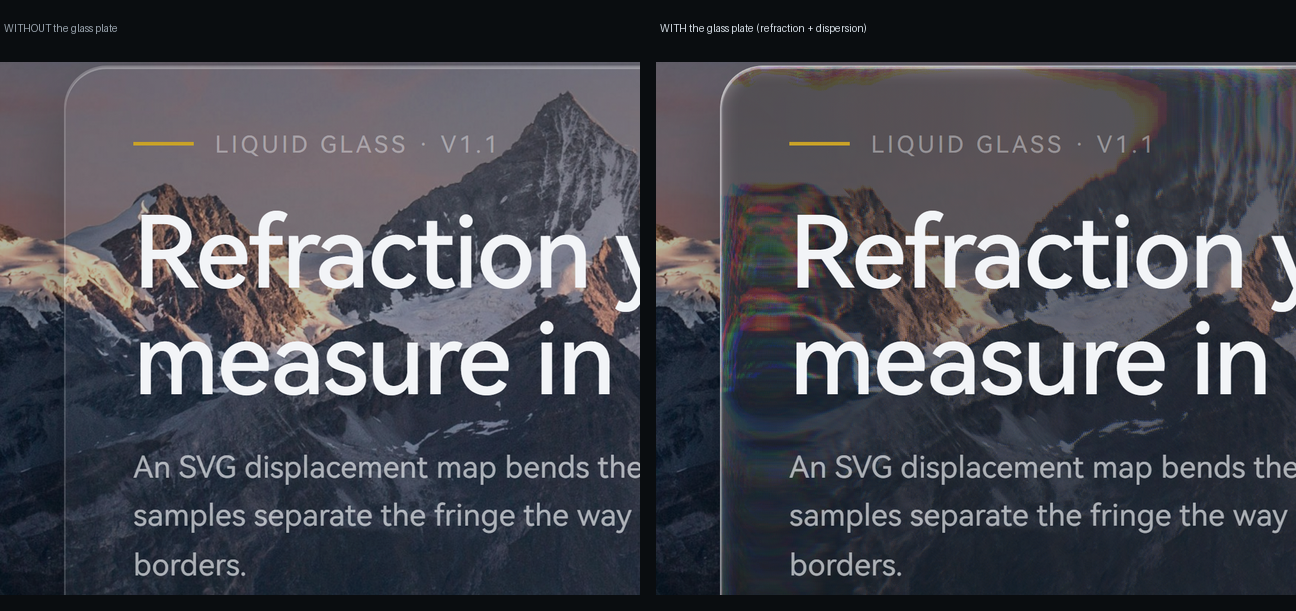
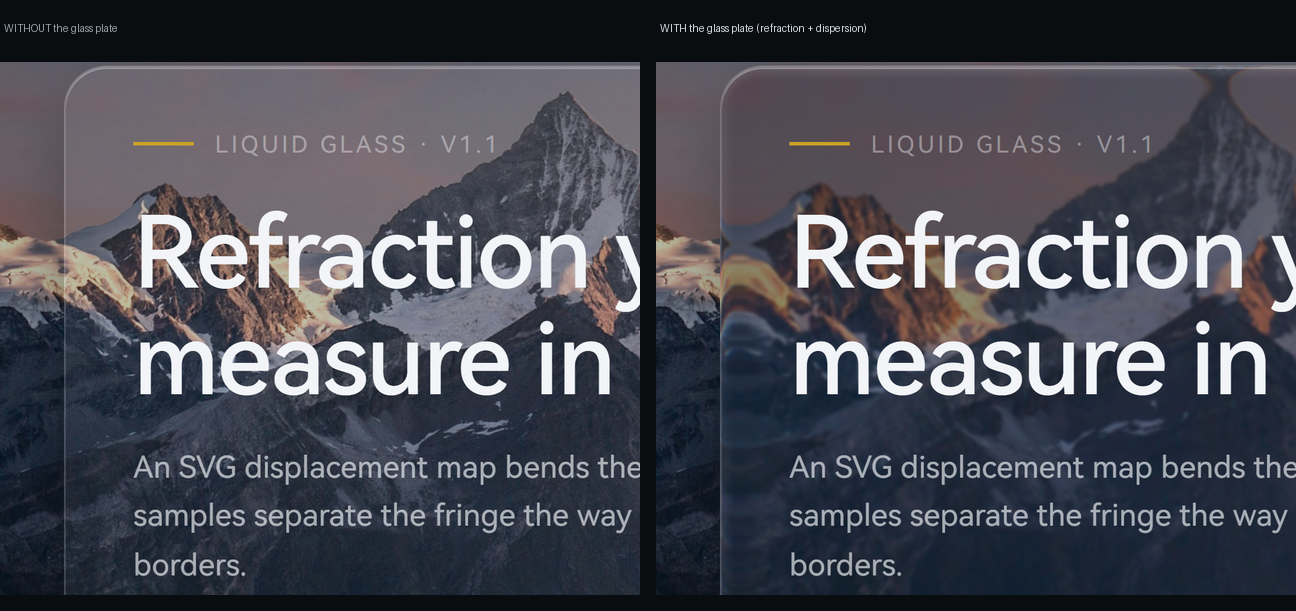
Adopt glasswork's rim model: absolute rim, edge multiplier, small dispersion
- rim is 40 CSS px (clamped) instead of a fraction of the card, so the fringe no longer grows with card size
- dispersion default 0.18 (~11 px band on a 40 px rim); the old 0.55 read as a broad rainbow
- under-glass blur 0.8 + saturate 1.35 + brightness 1.04 to lift the backdrop without fogging
- README/MODIFICATIONS credit kubai087/glasswork (MIT)

diff --git a/src/glass-plate.js b/src/glass-plate.js
@@ -32,14 +32,22 @@ const DEFAULTS = {
   /** Background layers to copy, in paint order. Each is cloned once per plate. */
   layers: ['.lg-bg', '.lg-scrim'],
   /** Lens defaults; tune per project. */
-  refraction: null, // null = auto: clamp(shortSide * 0.30, 8 … 92)
+  // Rim model borrowed from kubai087/glasswork: the refracting band is an absolute
+  // width in CSS px, the very edge samples `edge * rim` inward, and dispersion is a
+  // small fraction (0.15 = red 15% further than blue), not a broad rainbow.
+  rim: 40,
+  edge: 1.6,
+  refraction: null, // null = auto: min(rim * edge, shortSide * 0.5)
   bezel: 0.56,
   curvature: 4,
-  chroma: 0.55,
+  chroma: 0.18,
   specular: 0.86,
   specularWidth: 2.4,
   blur: 0,
   mapScale: 4,
+  // Under-glass treatment borrowed from glasswork: a light blur plus saturation/brightness
+  // lift keeps the glass clear instead of milky. Set frost.blur = 0 to disable.
+  frost: { blur: 0.8, saturate: 1.35, brightness: 1.04 },
 };
 
 const num = (el, name) => {
@@ -106,7 +114,10 @@ export function mountGlassPlate(stage, options = {}) {
 
     const radius = num(card, 'data-radius') ?? (parseFloat(getComputedStyle(card).borderTopLeftRadius) || 24);
     const shortSide = Math.min(r.width, r.height);
-    const refraction = num(card, 'data-refraction') ?? o.refraction ?? Math.max(8, Math.min(92, shortSide * 0.3));
+    const rim = num(card, 'data-rim') ?? o.rim;
+    const edge = num(card, 'data-edge') ?? o.edge;
+    const refraction = num(card, 'data-refraction') ?? o.refraction ?? Math.min(rim * edge, shortSide * 0.5);
+    const bezel = num(card, 'data-bezel') ?? Math.min(1, rim / Math.max(1, shortSide / 2));
 
     plate.style.width = `${w}px`;
     plate.style.height = `${h}px`;
@@ -117,7 +128,7 @@ export function mountGlassPlate(stage, options = {}) {
 
     return {
       x, y, width: r.width, height: r.height, radius, refraction,
-      bezel: num(card, 'data-bezel') ?? o.bezel,
+      bezel,
       curvature: num(card, 'data-curvature') ?? o.curvature,
       chroma: num(card, 'data-chroma') ?? o.chroma,
       specular: num(card, 'data-specular') ?? o.specular,
@@ -135,8 +146,17 @@ export function mountGlassPlate(stage, options = {}) {
     const geometry = measure(card, plate, inner);
     if (!geometry) return;
 
+    applyFrost(inner);
     const ctrl = createGlass(inner, geometry);
     instances.push({ card, plate, inner, ctrl });
+  }
+
+  function applyFrost(inner) {
+    const f = o.frost;
+    if (!f || !f.blur) return;
+    for (const layer of inner.children) {
+      layer.style.filter = `blur(${f.blur}px) saturate(${f.saturate}) brightness(${f.brightness})`;
+    }
   }
 
   function refresh() {

diff --git a/demo/index.html b/demo/index.html
@@ -23,7 +23,7 @@
     <span><b>05</b> License</span>
   </nav>
 
-  <section class="hero glass" data-glass data-refraction="92" data-bezel="0.56" data-chroma="0.55" data-map-scale="4" data-blur="0">
+  <section class="hero glass" data-glass data-rim="40" data-edge="1.6" data-chroma="0.18" data-map-scale="4" data-blur="0">
     <div class="eyebrow">Liquid glass · v1.1</div>
     <h1>Refraction you can<br>measure in pixels.</h1>
     <p>
@@ -46,7 +46,7 @@
     </div>
   </section>
 
-  <aside class="side glass" data-glass data-refraction="92" data-bezel="0.56" data-chroma="0.55" data-map-scale="4" data-blur="0">
+  <aside class="side glass" data-glass data-rim="40" data-edge="1.6" data-chroma="0.18" data-map-scale="4" data-blur="0">
     <h2>Edge bend across the rim</h2>
     <svg class="chart" viewBox="0 0 456 210" role="img" aria-label="Refraction strength falls off from the rim">
       <defs>

diff --git a/README.md b/README.md
@@ -102,10 +102,10 @@ python -m http.server 8000     # ES module 需要 HTTP，不能 file://
 | --- | --- | --- |
 | `targets` | `'[data-glass]'` | 需要玻璃效果的卡片选择器 |
 | `layers` | `['.lg-bg', '.lg-scrim']` | 要复制进玻璃层的背景层，按绘制顺序 |
-| `refraction` | 自动 `clamp(短边×0.30, 8…92)` | 边缘最大位移，CSS px |
-| `bezel` | `0.56` | 折射带宽度，占短边一半的比例；大卡片建议 0.10–0.20 |
+| `rim` | `40` | 折射带宽度，CSS px（按短边收敛） |
+| `edge` | `1.6` | 最外缘向内采样的距离，单位是 rim |
 | `curvature` | `4` | 剖面指数，2 为圆形、4 偏方、越大边缘越陡 |
-| `chroma` | `0.55` | 色散强度；0 关闭额外光谱采样 |
+| `chroma` | `0.18` | 色散强度，≈ 彩边宽度 / (rim × edge)；0 关闭 |
 | `specular` | `0.86` | 边缘高光强度 |
 | `specularWidth` | `2.4` | 高光宽度，CSS px |
 | `blur` | `0` | 玻璃内部磨砂，CSS px |
@@ -154,9 +154,21 @@ docs/                   README 用图
 
 ---
 
+## Borrowed ideas
+
+The rim model now follows [kubai087/glasswork](https://github.com/kubai087/glasswork) (MIT):
+
+- the refracting band is an **absolute width** (`rim`, 40 CSS px) clamped on small surfaces, not a
+  fraction of the card — so a bigger card no longer gets a wider, muddier fringe;
+- the very edge samples `edge × rim` inward (1.1–1.6), and the bend falls off as `(1 - d/rim)^power`;
+- **dispersion is a small fraction** (`0.15` mehnt red bends ~15% further than blue). Our old `0.55`
+  spread the channels ±55% and read as a broad rainbow; ~0.18 with a 40 px rim gives an ~11 px band;
+- under-glass `blur + saturate + brightness` (kept to 0.8 px here) lifts the backdrop without fogging it.
+
 ## Credits
 
 - 引擎基于 [gentpan/liquidglass](https://github.com/gentpan/liquidglass)（MIT）。
+- rim 模型与色散量级参考 [kubai087/glasswork](https://github.com/kubai087/glasswork)（MIT）。
 - `demo/assets/alpine.jpg` 来自 Unsplash（photo-1506905925346-21bda4d32df4），仅作演示背景。
 
 ## License

diff --git a/MODIFICATIONS.md b/MODIFICATIONS.md
@@ -40,7 +40,14 @@ A 42 px tall pill given `refraction: 92` has its rounded caps dragged outward pa
 `glass-plate.js` now derives it from the short side: `clamp(shortSide * 0.30, 8 … 92)`, and per-element
 `data-refraction` still wins.
 
-## 6. `glass-plate.js` — the attachment layer
+## 6. Rim model from glasswork
+
+Adopted from [kubai087/glasswork](https://github.com/kubai087/glasswork) (MIT): the rim is an absolute
+width in CSS px (`rim`, clamped on small surfaces), the edge samples `edge × rim` inward, and
+dispersion is a small fraction of that distance. The earlier fraction-of-card `bezel` made large
+cards produce a very wide, muddy fringe; an absolute rim keeps the band the same at any card size.
+
+## 7. `glass-plate.js` — the attachment layer
 
 Replaces the per-card "clone the background inside the card and guess the offset" approach:
 
